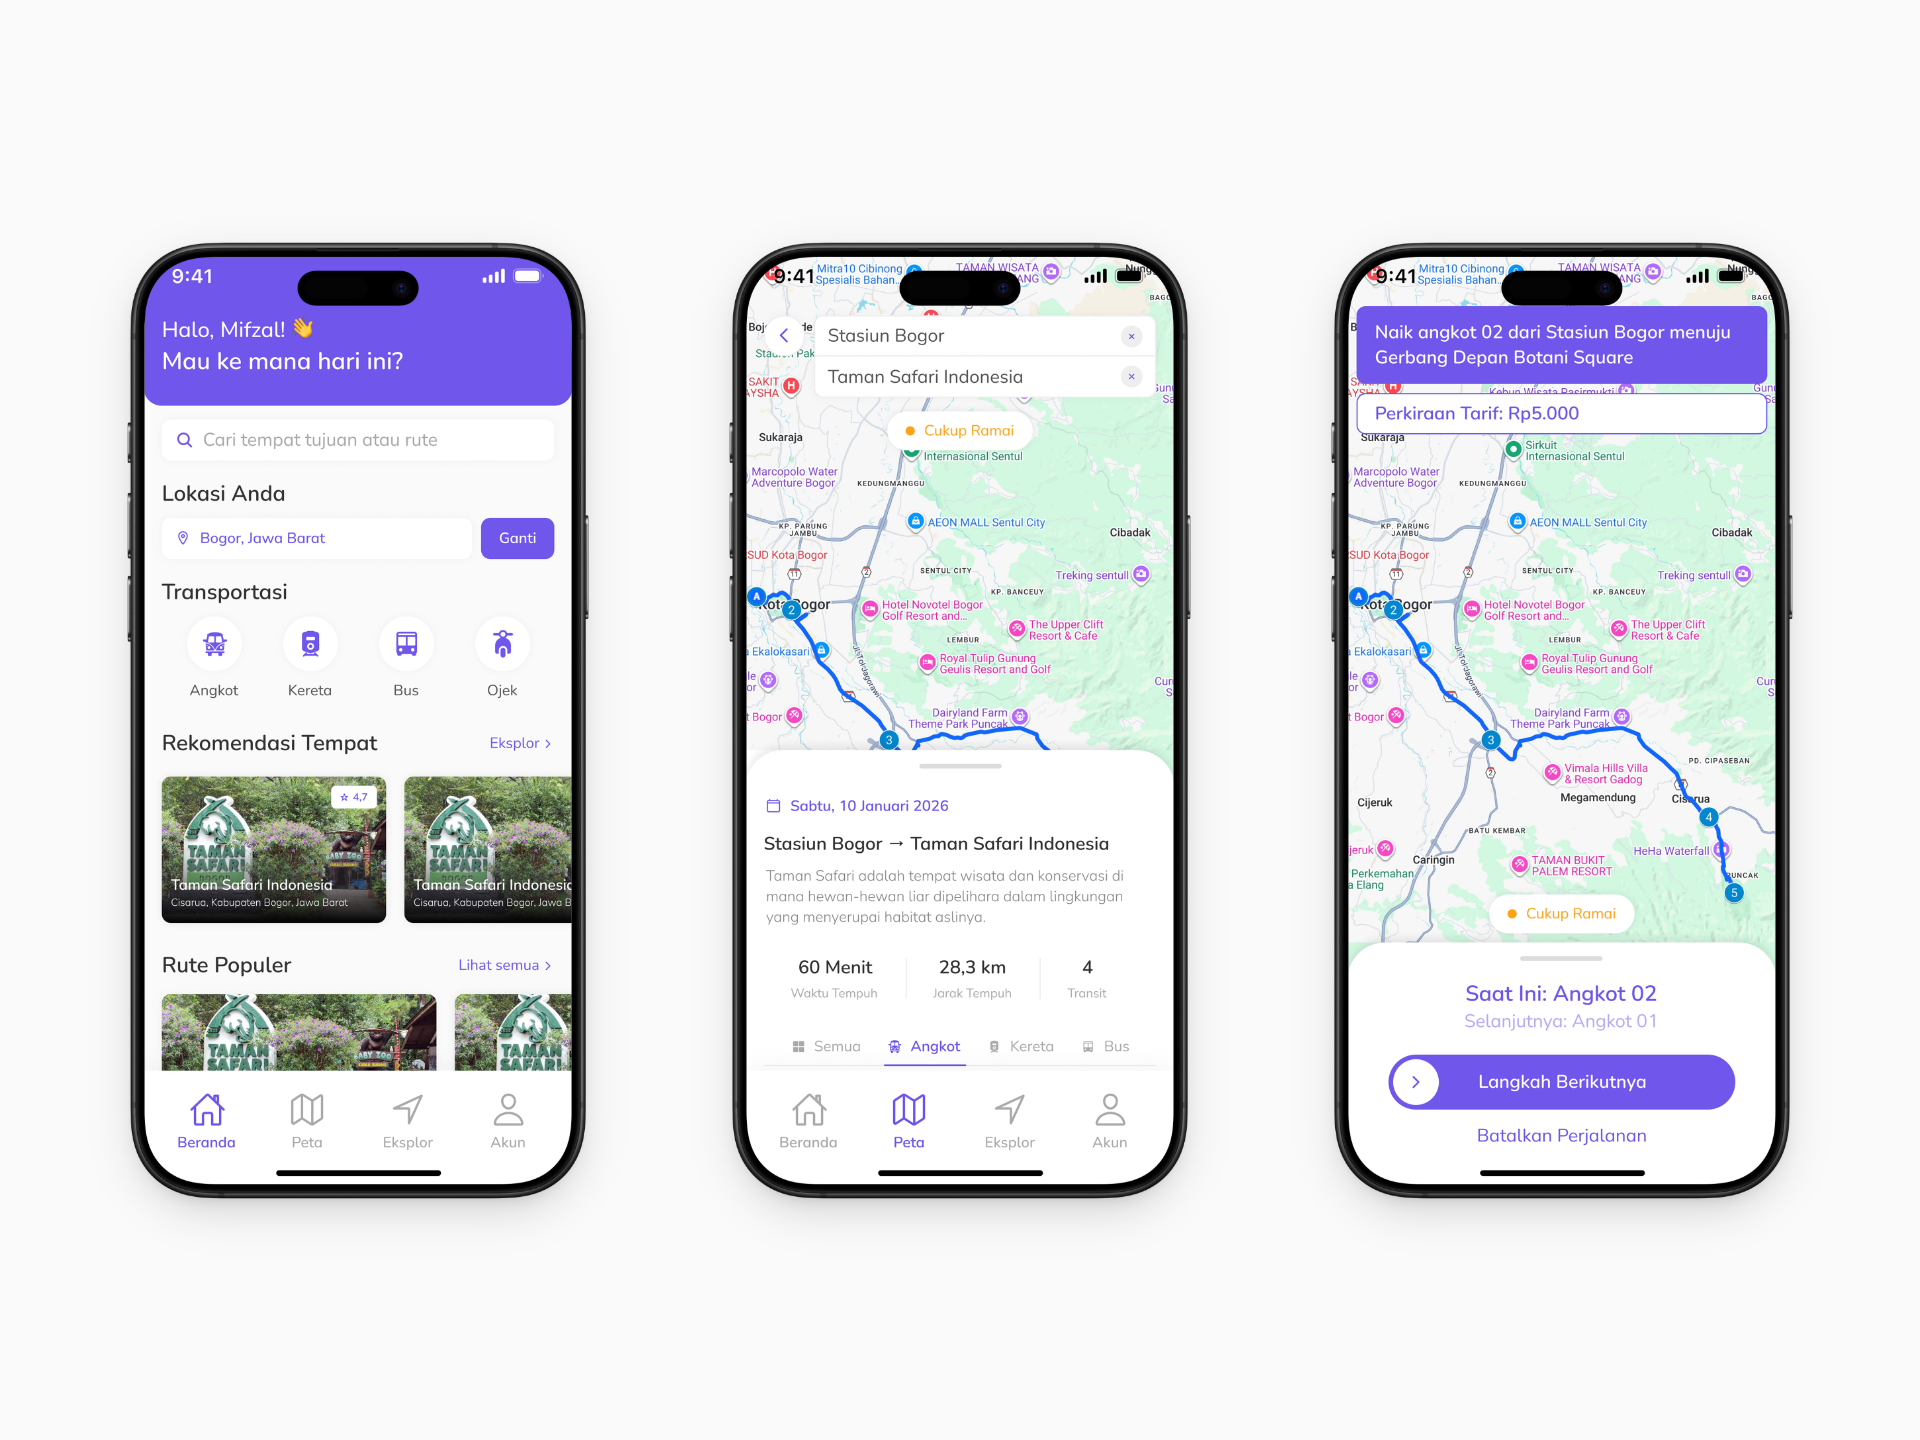
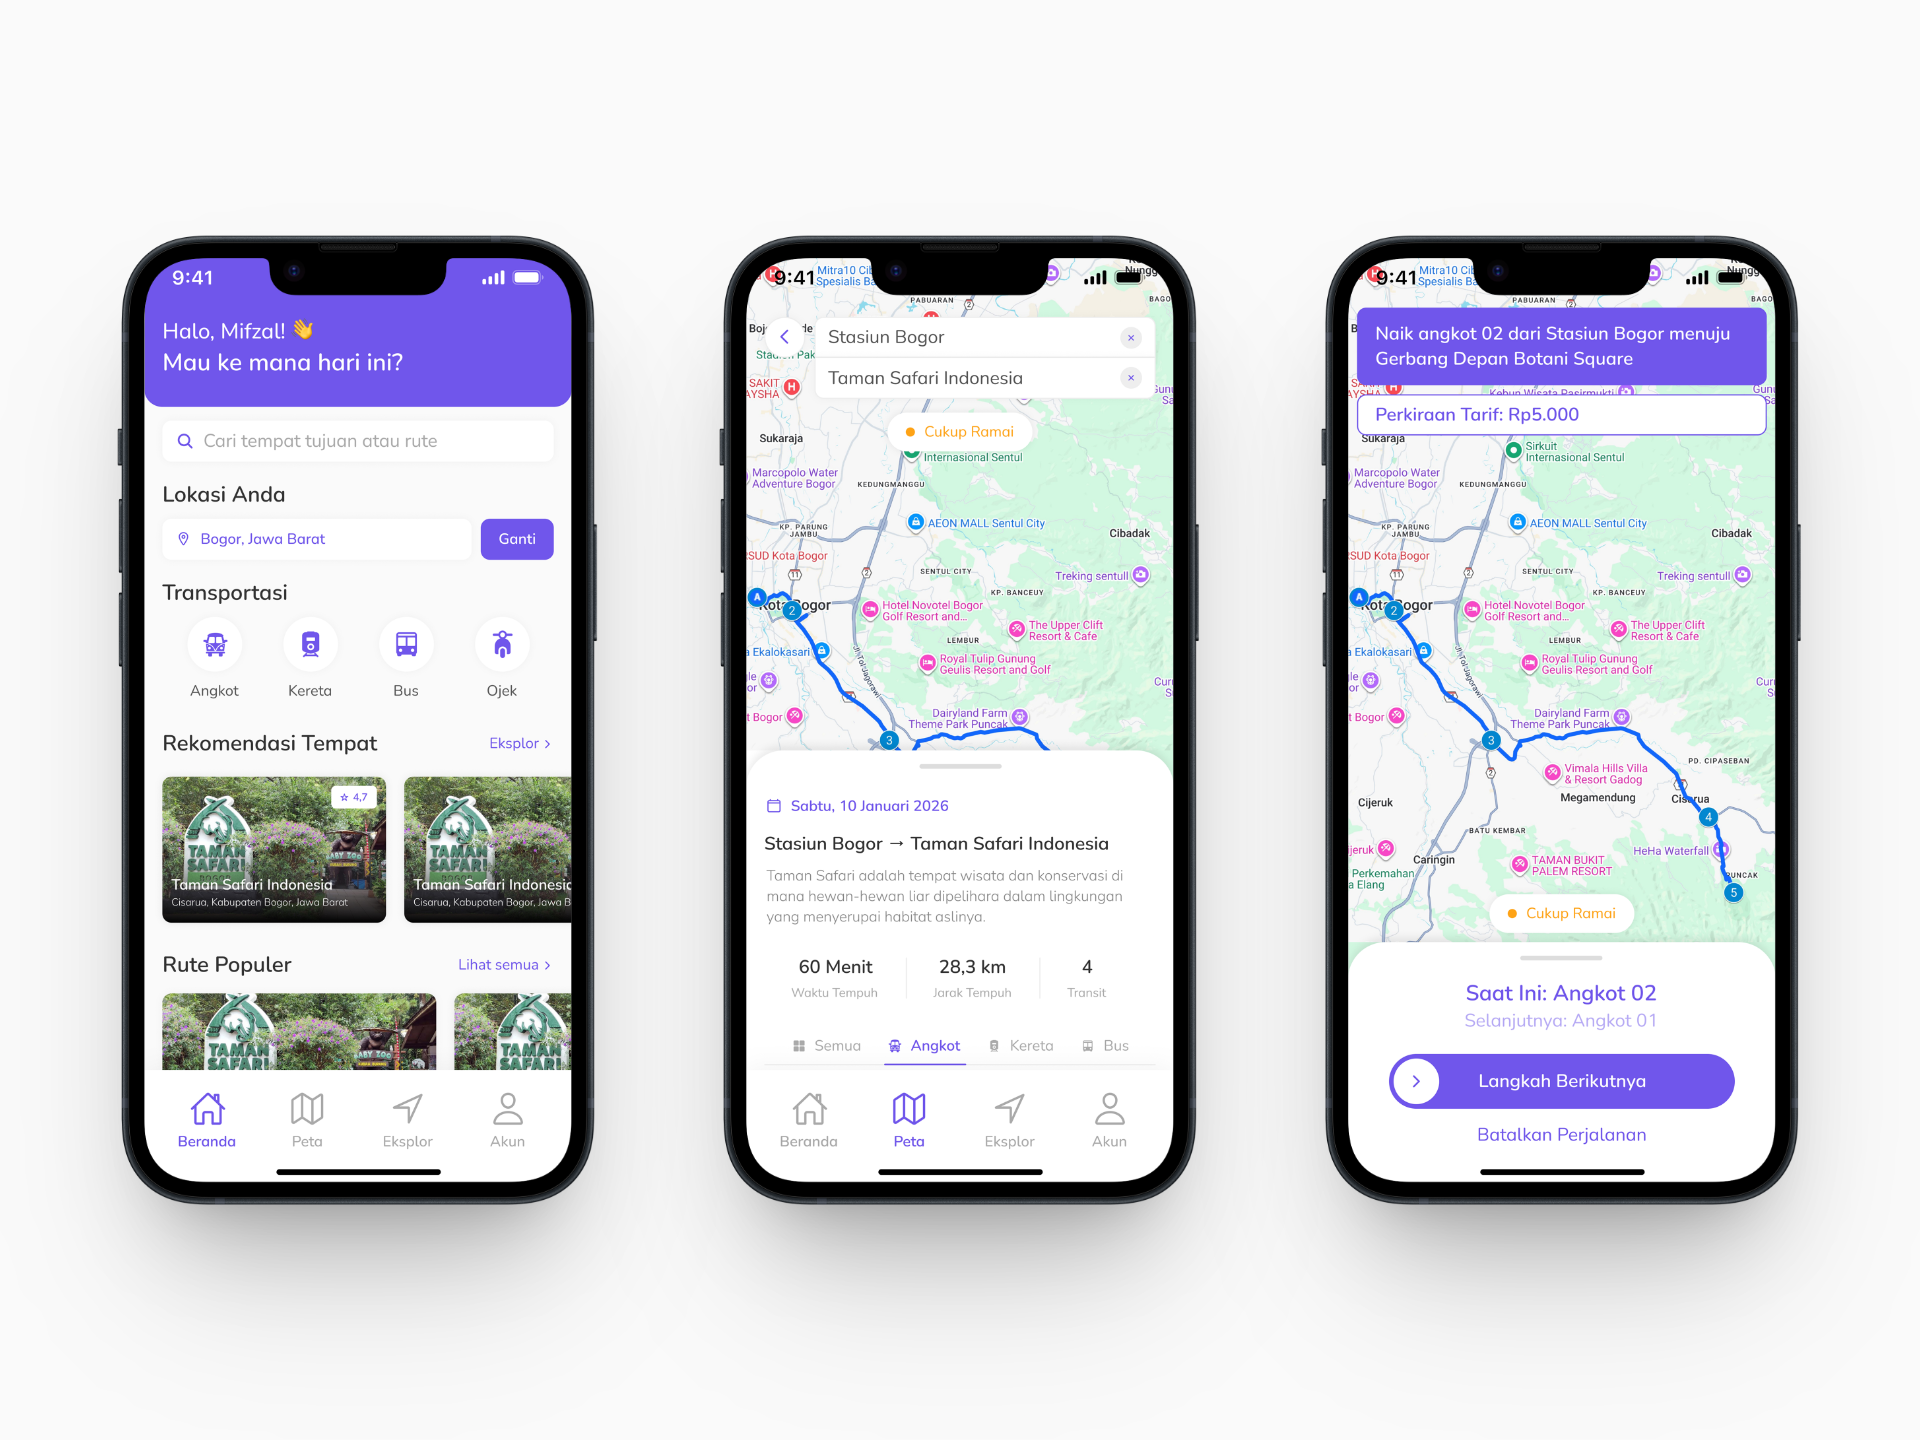
add footer and add some projects. add padding in btn

diff --git a/index.html b/index.html
@@ -131,7 +131,7 @@
               <div
                 class="d-flex flex-row justify-content-center justify-content-lg-start"
               >
-                <button class="btn btn-primary fw-semibold me-2">
+                <button class="btn btn-primary fw-semibold p-2 me-2">
                   Get In Touch
                 </button>
                 <button class="btn btn-outline-primary fw-semibold">
@@ -221,11 +221,11 @@
                     >
                   </div>
                   <h5 class="card-title fw-bold text-dark">FitPlus</h5>
-                  <p class="card-text text-secondary small flex-grow-1">
+                  <p class="card-text text-secondary small flex-grow-1 lh-sm">
                     A health tracking site to keep your body and lifestyle
                     healthy.
                   </p>
-                  <a href="#" class="btn btn-primary fw-semibold">
+                  <a href="https://www.figma.com/proto/IA1UXzxMYukdMINI4Fhpur/FitPlus?node-id=943-856&starting-point-node-id=943%3A856" target="_blank" class="btn btn-primary fw-semibold p-2">
                     View Project
                   </a>
                 </div>
@@ -266,10 +266,10 @@
                   <h5 class="card-title fw-bold text-dark">
                     PPLG Class 1'27 Website
                   </h5>
-                  <p class="card-text text-secondary small flex-grow-1">
+                  <p class="card-text text-secondary small flex-grow-1 lh-sm">
                     Website of PPLG class 1'27 SMK Negeri 4 Bogor.
                   </p>
-                  <a href="#" class="btn btn-primary fw-semibold">
+                  <a href="https://pepelegsone.web.app" target="_blank" class="btn btn-primary fw-semibold p-2">
                     View Project
                   </a>
                 </div>
@@ -300,12 +300,12 @@
                     >
                   </div>
                   <h5 class="card-title fw-bold text-dark">Naboengs</h5>
-                  <p class="card-text text-secondary small flex-grow-1">
+                  <p class="card-text text-secondary small flex-grow-1 lh-sm">
                     A savings application that makes it easier for you to manage
                     your savings.
                   </p>
-                  <a href="#" class="btn btn-primary fw-semibold">
-                    View Project
+                  <a href="#" class="btn btn-secondary fw-semibold" style="cursor: not-allowed;">
+                    Install Application (Cominq Soon)
                   </a>
                 </div>
               </div>
@@ -335,16 +335,77 @@
                     >
                   </div>
                   <h5 class="card-title fw-bold text-dark">Ruteku</h5>
-                  <p class="card-text text-secondary small flex-grow-1">
+                  <p class="card-text text-secondary small flex-grow-1 lh-sm">
                     An easy-to-understand guide application for using city
                     public transportation.
                   </p>
-                  <a href="#" class="btn btn-primary fw-semibold">
+                  <a href="https://www.figma.com/proto/fIyYayMzbKZmbnuvF4tb9k/Ruteku?node-id=1101-10451&p=f&t=Ynai5pEJjelVVTnA-1&scaling=scale-down&content-scaling=fixed&page-id=0%3A1&starting-point-node-id=1101%3A10451" target="_blank" class="btn btn-primary fw-semibold p-2 p-2">
                     View Project
                   </a>
                 </div>
               </div>
             </div>
+
+            <div class="col">
+              <div class="card h-100 border-0 shadow-sm overflow-hidden">
+                <img
+                  src="assets/img/seken.png"
+                  class="ratio ratio-4x3 card-img-top"
+                  alt="Project Preview"
+                  style="object-fit: cover"
+                />
+                <div class="card-body d-flex flex-column p-3">
+                  <div class="mb-2 d-flex flex-wrap gap-2">
+                    <span
+                      class="badge bg-primary-subtle text-primary rounded-pill"
+                      >UI/UX</span
+                    >
+                    <span
+                      class="badge bg-secondary-subtle text-secondary rounded-pill"
+                      >Figma</span
+                    >
+                  </div>
+                  <h5 class="card-title fw-bold text-dark">Seken</h5>
+                  <p class="card-text text-secondary small flex-grow-1 lh-sm">
+                    An application for buying and selling new and second-hand motorcycle spare parts.
+                  </p>
+                  <a href="https://www.figma.com/proto/8qFpHKrA8OI4eWmKMmmPQh" target="_blank" class="btn btn-primary fw-semibold p-2 p-2">
+                    View Project
+                  </a>
+                </div>
+              </div>
+            </div>
+
+            <div class="col">
+              <div class="card h-100 border-0 shadow-sm overflow-hidden">
+                <img
+                  src="assets/img/laporin.png"
+                  class="ratio ratio-4x3 card-img-top"
+                  alt="Project Preview"
+                  style="object-fit: cover"
+                />
+                <div class="card-body d-flex flex-column p-3">
+                  <div class="mb-2 d-flex flex-wrap gap-2">
+                    <span
+                      class="badge bg-primary-subtle text-primary rounded-pill"
+                      >UI/UX</span
+                    >
+                    <span
+                      class="badge bg-secondary-subtle text-secondary rounded-pill"
+                      >Figma</span
+                    >
+                  </div>
+                  <h5 class="card-title fw-bold text-dark">Laporin</h5>
+                  <p class="card-text text-secondary small flex-grow-1 lh-sm">
+                    An easy-to-use Public Reporting Application.
+                  </p>
+                  <a href="https://www.figma.com/proto/SJAKHBSE6n7DcBGPhCOBKA?node-id=0-1&t=zCuyRGgjhDyAzYNI-6" target="_blank" class="btn btn-primary fw-semibold p-2 p-2">
+                    View Project
+                  </a>
+                </div>
+              </div>
+            </div>
+
           </div>
         </div>
       </section>
@@ -455,9 +516,21 @@
       </section>
     </main>
 
-    <footer>
-      <!-- place footer here -->
-    </footer>
+    <footer class="bg-light text-center">
+    <div class="container py-5">
+        <section>
+          <h5 class="fw-bold mb-3">Let's work together!</h5>
+            <a href="https://github.com/faridadilahz" target="_blank" class="btn text-primary btn-floating m-1"><ion-icon size="large" name="logo-github"></ion-icon></a>
+            <a href="mailto:papatonqs@gmail.com" target="_blank" class="btn text-primary btn-floating m-1"><ion-icon size="large" name="mail-outline"></ion-icon></a>
+            <a href="https://www.instagram.com/papatonqq/" target="_blank" class="btn text-primary btn-floating m-1"><ion-icon size="large" name="logo-instagram"></ion-icon></a>
+            <a href="https://www.youtube.com/@papatonq" target="_blank" class="btn text-primary btn-floating m-1"><ion-icon size="large" name="logo-youtube"></ion-icon></a>
+            <a href="https://id.linkedin.com/in/muhammad-farid-adilah-handi-732367348" target="_blank" class="btn text-primary btn-floating m-1"><ion-icon size="large" name="logo-linkedin"></ion-icon></a>
+        </section>
+    </div>
+    <div class="text-center text-primary p-3" style="background-color: #f5f5f5;">© 2026 papatonq. All Rights Reserved
+
+    </div>
+</footer>
 
     <style>
       @media (min-width: 992px) {
@@ -473,5 +546,8 @@
       integrity="sha384-FKyoEForCGlyvwx9Hj09JcYn3nv7wiPVlz7YYwJrWVcXK/BmnVDxM+D2scQbITxI"
       crossorigin="anonymous"
     ></script>
+
+    <script type="module" src="https://unpkg.com/ionicons@8.0.13/dist/ionicons/ionicons.esm.js"></script>
+<script nomodule src="https://unpkg.com/ionicons@8.0.13/dist/ionicons/ionicons.js"></script>
   </body>
 </html>
